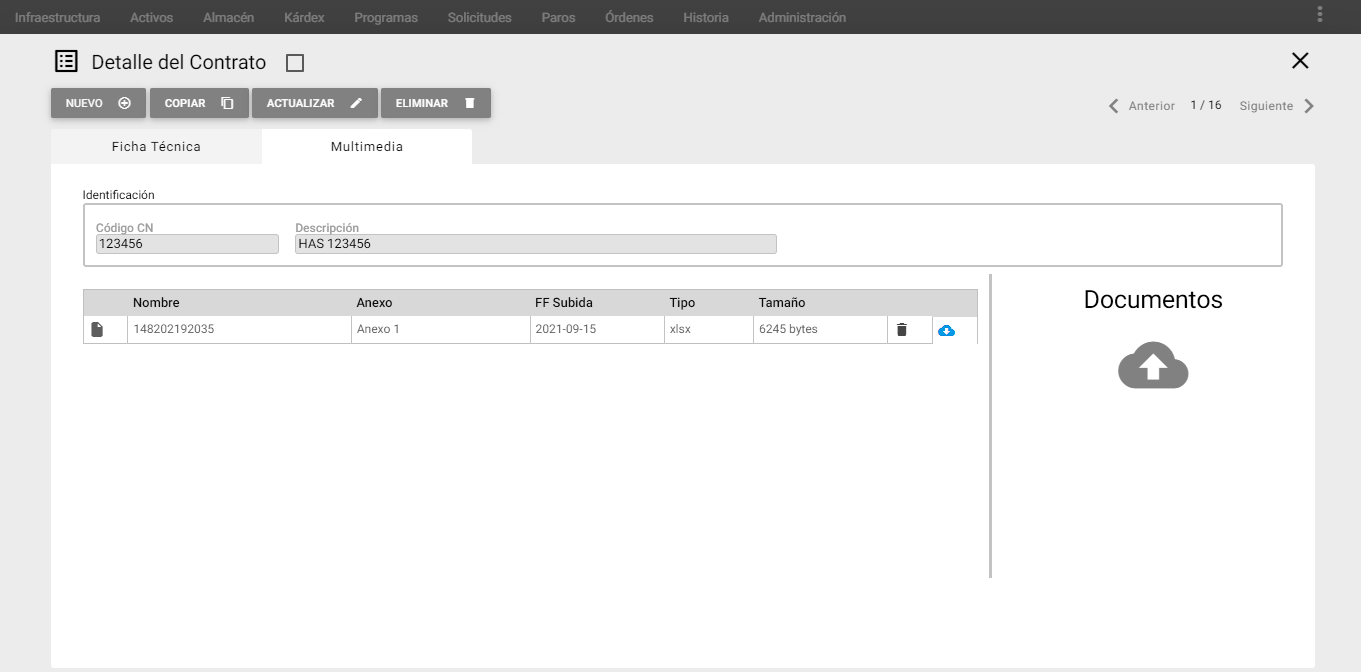
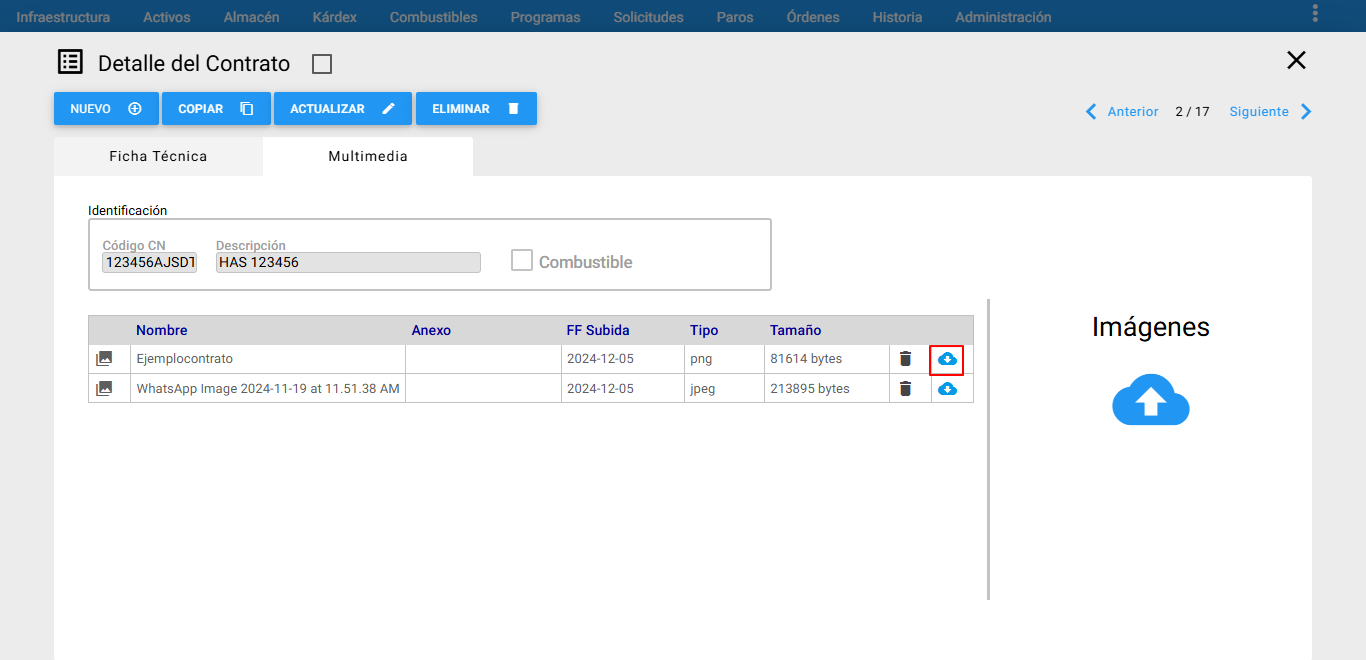
redacción y actualización imagenes

diff --git a/_docs/02_03_tables.md b/_docs/02_03_tables.md
@@ -689,27 +689,28 @@ A continuación se describen las carpetas que componen esta ventana; cuando se q
 
 **Videos:** En esta carpeta se relacionan porciones de videos relacionados al Contrato. Ejemplo: Videos en formato wmv, mp4, entre otros.
 
-Para adicionar un documento, imagen o video, se debe dar acceder a la carpeta deseada a través de un doble clic, luego se da clic al icono de nube <span class="mdi mdi-cloud-upload icon white"></span> y a continuación se abre el explorador de archivos, se selecciona el archivo y se da clic en <a class="btn white">abrir</a>, como se muestra a continuación:
+Para adicionar un documento, imagen o video, se debe dar acceder a la carpeta deseada por medio de un doble clic, luego accionar el botón <span class="mdi mdi-cloud-upload icon white"></span> que abre el explorador de archivos. Seleccione el archivo y accione nuevamente en 
+<a class="btn cl-w bg-gray bd-gray bg-white px-6"> Abrir </a>, como se muestra a continuación:
 
 ![Procesar imagen](../../assets/images/cap02/chp02_img62.png)
 _**Imagen 45.** Contrato Porción Multimedia_
 
-Una vez se da clic en <a class="btn white">abrir</a> se evidencia al lado derecho el nombre del archivo elegido y aparece un campo en blanco, para que el usuario escriba un nombre adicional del archivo para ser usado como una referenciación del archivo adjunto. Luego, se da clic en el botón <a class="btn white">Subir archivo</a>.
+Luego,  se evidencia al lado derecho el nombre del archivo elegido y aparece un campo en blanco, para que el usuario escriba un nombre adicional del archivo para ser usado como una referenciación del archivo adjunto. Luego, se da clic en el botón <a class="btn white">Subir archivo</a>.
 
 ![Procesar imagen](../../assets/images/cap02/chp02_img63.png)
 _**Imagen 46.** Adjuntar un Archivo_
 
-Los archivos que se van adicionando van quedando guardados uno debajo del otro y si se da un clic en uno de las imágenes, se visualiza la imagen adjunta.
+Los archivos que se van adicionando van quedando guardados uno debajo del otro. Solo los formatos de tipo imagen tienen previsualización dando clic sobre el registro:
 
 ![Procesar imagen](../../assets/images/cap02/chp02_img64.png)
 _**Imagen 47.** Archivo adjunto_
 
-Para desasociar un documento, o una imagen o un video, al Contrato se da clic al ícono de Basura <span class="mdi mdi-delete"></span> que se encuentra al lado derecho del archivo al que se le va a realizar la operación. Inmediatamente, sale un mensaje de alerta que pregunta al usuario si está seguro de eliminar este registro y se da clic en el botón <a class="btn white">Aceptar</a>.
+Para desasociar un documento, o una imagen o un video, al Contrato se da clic al ícono <span class="mdi mdi-delete"></span> que se encuentra al lado derecho del archivo al que se le va a realizar la operación. El sistema alerta al usuario antes de ejcutar tal acción y para continuar accionar el botón  <a class="btn cl-black bg-gray bd-gray px-6"> ACEPTAR </a>.
 
 ![Procesar imagen](../../assets/images/cap02/chp02_img65.png)
 _**Imagen 48.** Eliminar un archivo_
 
-Si se desea descargar un archivo adjunto al Contrato, se debe dar clic en el icono de nube con flecha hacia abajo <span class="mdi mdi-cloud-download icon white"></span> que se encuentra al lado derecho del archivo que se quiere descargar, como se muestra a continuación:
+Para descargar un archivo adjunto al Contrato, se debe dar clic en el icono  <span class="mdi mdi-cloud-download icon white"></span> que se encuentra al lado derecho del archivo que se quiere descargar, como se muestra a continuación:
 
 ![Procesar imagen](../../assets/images/cap02/chp02_img66.png)
 _**Imagen 49.** Descargar archivo_
@@ -717,7 +718,7 @@ _**Imagen 49.** Descargar archivo_
 
 ## Tipos de Trabajo (TT)
 
-El Tipo de Trabajo especifica la especialidad o especialidades técnicas: Mecánica, Eléctrica, Instrumentación/Electrónica u Otras requeridas para satisfacer el objetivo de una Órden de Trabajo.
+El Tipo de Trabajo especifica las especialidades técnicas requeridas para cumplir con el objetivo de una Órden de Trabajo. Estas especialidades pueden ser: Mecánica, Eléctrica, Instrumentación/Electrónica u Otras.
 
 ![Procesar imagen](../../assets/images/cap02/chp02_img80.png)
 _**Imagen 50.** Visor Tipos de Trabajo_
@@ -728,15 +729,17 @@ _>**Nota:** Esta tabla no es modificable a no ser que se trate de un usuario que
 
 ## Tipos de Mantenimiento (TM)
 
-Dependiendo de las actividades técnicas a realizar, esta tabla contiene los distintos tipos de Mantenimiento comúnmente aceptados e incluso definidos en la norma ISO 14224.
-Se encuentran tanto aquellos tipos de Mantenimiento que son reactivos, como los correctivos, otros que son proactivos y algunos Otros especiales que dependen de la táctica o estrategia de la organización de Mantenimiento,  WIN Software recomienda no modificar la tabla de Tipos de Mantenimiento. Existe la forma de definir variaciones de los tipos de Mantenimiento y enlazarse con los Tipos de Actividad para lograr combinaciones a la medida.
+
+Dependiendo de las actividades técnicas a realizar, esta tabla presenta los distintos tipos de Mantenimiento comúnmente aceptados y definidos en la norma ISO 14224. En ella se incluyen tanto los tipos de Mantenimiento reactivo y correctivo, como aquellos de enfoque proactivo, así como algunos tipos especiales que dependen de la táctica o estrategia de la organización de Mantenimiento.
+
+WIN Software recomienda no modificar la tabla de Tipos de Mantenimiento. Sin embargo, es posible definir variaciones de estos tipos de Mantenimiento y asociarlas con los Tipos de Actividad, permitiendo así combinaciones personalizadas según las necesidades específicas.
 
 ![Procesar imagen](../../assets/images/cap02/chp02_img81.png)
 _**Imagen 51.** Visor Tipos de Mantenimiento_
 
 ## Tipos de Actividad (TA)
 
-El objetivo de esta tabla es registrar otros Tipos de Actividad. Los Tipos de Actividad  se usan para caracterizar aún más las Órdenes de Trabajo. Algunos  corresponden a Actividades de Mantenimiento como: Correctivo, Preventivo, Preventivo Manual, Predictivo, Inspección, Calibración; pero otros corresponden a actividades que no constituyen mantenimiento formalmente pero sí consumen recursos apreciables de los propios de Mantenimiento: Horas Hombre de Mano de Obra, Materiales y Repuestos y/o Servicios Externos.
+El objetivo de esta tabla es registrar otros Tipos de Actividad. Los Tipos de Actividad  se usan para caracterizar aún más las Órdenes de Trabajo. Algunos  corresponden a Actividades de Mantenimiento como: Correctivo, Preventivo, Preventivo Manual, Predictivo, Inspección, Calibración; pero otros corresponden a actividades que no constituyen mantenimiento formalmente pero sí consumen recursos apreciables de los propios de Mantenimiento: Horas Hombre de Mano de Obra, Materiales y Repuestos y/o Servicios Externos.  
 
 El Tipo de Actividad puede ser un criterio más de selección y de búsqueda, en estudios sobre Órdenes de Trabajo e Historia de Mantenimiento.
 

diff --git a/_components/buttons.md b/_components/buttons.md
@@ -363,7 +363,7 @@ almacén :
 <a class="btn cl-w bg-gray black bd-black bg-white px-6"> Seleccionar archivo </a>
 
 
-<a class="btn cl-w bg-gray black bd-black bg-white px-6"> Abrir </a>
+<a class="btn cl-w bg-gray bd-black bg-white px-6"> Abrir </a>
 
 
 <span class="mdi mdi-cloud-download icon white"></span>
